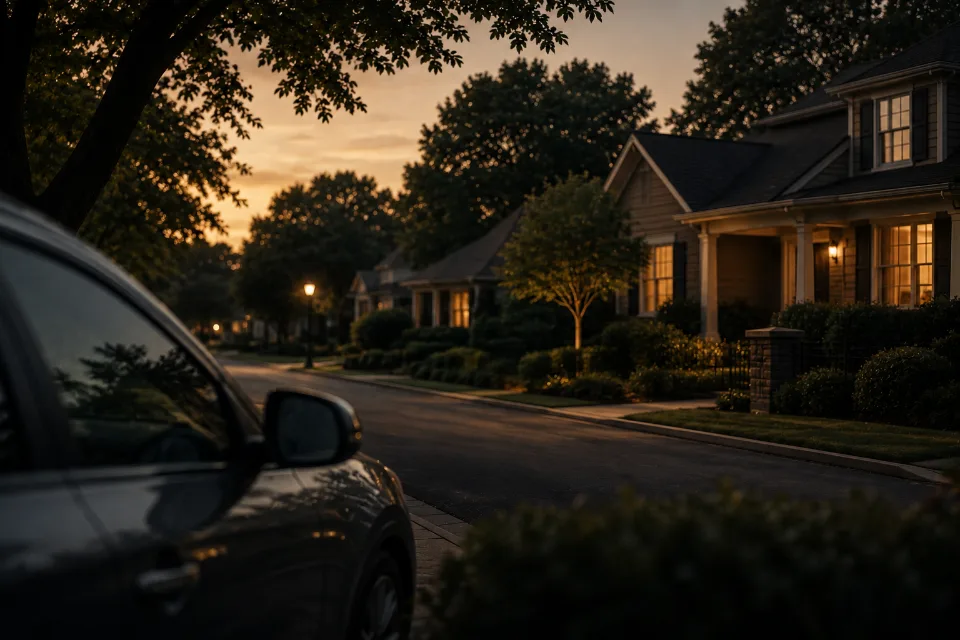
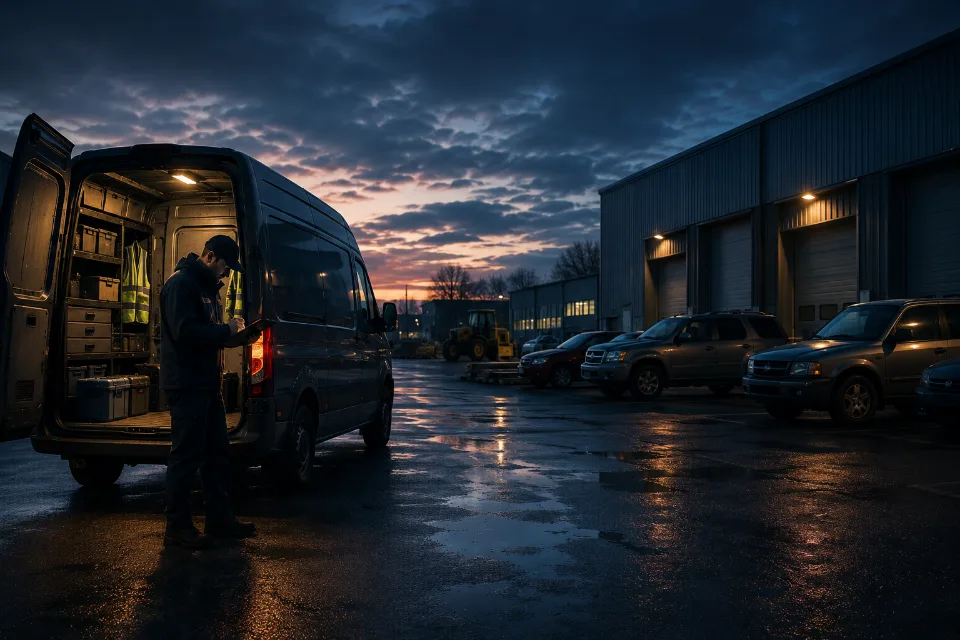
Unit 40C — the insurance card gets its own setting
The first insurance photograph was a suburban street at dusk with a parked
car. So is the private one, two cards away in the same row — so the two read
as a pair rather than as three doors to three different businesses. It was
raised before the set shipped and is fixed now with the owner's replacement: a
commercial yard, a work van, warehouse bays, a wet apron at dusk.

Claims work is not only residential, and the setting is what tells a visitor
which business the card is for. The three now read as insurance, legal and
private rather than as two streets and an office.

Measured on the real card: white title against the LIGHTEST pixel behind it is
5.54:1, against a 4.5 bar. 1536x1024 source, 960x640 WebP, 74 KB.

THE SWAP COST ONE url() AGAIN — this is the third time that property has been
exercised and it still holds. Heights and title positions are unmoved.

CLAUDE.md records why the subjects differ, because it is not obvious from any
one card: if one is ever re-shot, it has to be checked against the OTHER TWO
rather than on its own. That is the mistake this fixes.

intake 542/0, deploy guard 86/0. No layout, routing or pricing change.

Claude-Session: https://claude.ai/code/session_01GAfGY5VK7E4Q4GPbMBmxdf

diff --git a/CLAUDE.md b/CLAUDE.md
@@ -332,12 +332,21 @@ layout moving. On 2026-08-22 the owner supplied three, and that is exactly what
 it cost: **three `url()`s and three lines in `deploy-manifest.txt`.** Heights
 stayed 236/236/236 and titles 645/645/645.
 
-`card-insurance.webp` (64 KB), `card-legal.webp` (52 KB) and
+`card-insurance.webp` (74 KB), `card-legal.webp` (52 KB) and
 `card-private.webp` (74 KB) — 960×640, the source's own 3:2 rather than a 16:9
 crop, because the card's tallest shape is 1.40:1 and cropping to 16:9 would
 throw away height the tablet actually uses. Nothing is hotlinked. **Keep the
 one-property rule**: a per-card `background-position`, or a bespoke height for
 one card, would end the property that makes a future swap free.
+
+**THE THREE SUBJECTS ARE DELIBERATELY DIFFERENT SETTINGS.** The first
+insurance photograph was a suburban street at dusk with a parked car — and so
+is the private one, two cards away in the same row, so they read as a pair
+rather than as three doors. It was replaced with a **commercial yard**: a work
+van, warehouse bays, a wet apron at dusk. Claims work is not only residential,
+the setting says which business the card is for, and the swap cost one
+`url()`. If a card is ever re-shot, check it against the OTHER two rather than
+on its own.
 
 **A replacement image needs its subject in the CENTRAL 60% of the frame.** The
 card is three different shapes and crops different axes at each — full width

diff --git a/case-portal/NEXT.md b/case-portal/NEXT.md
@@ -459,7 +459,7 @@ run 32604959775 ✅. intake **542/0**, deploy **86/0**. LIVE VERIFY **OPEN**.
 
 | Card | File | Size |
 | --- | --- | --- |
-| Insurance | `card-insurance.webp` | 64 KB |
+| Insurance | `card-insurance.webp` | 74 KB |
 | Legal | `card-legal.webp` | 52 KB |
 | Private | `card-private.webp` | 74 KB |
 
